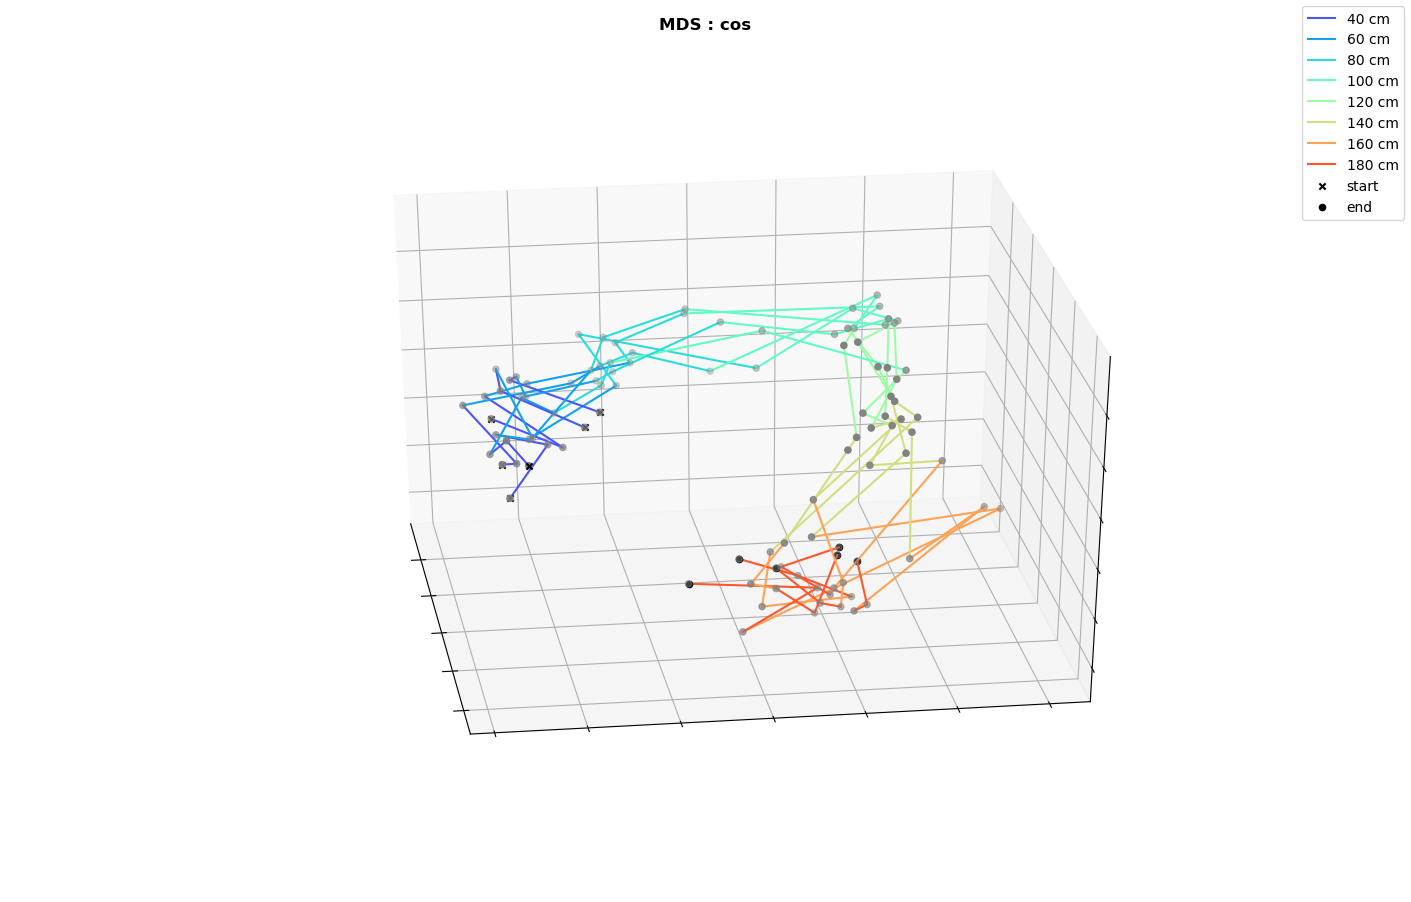
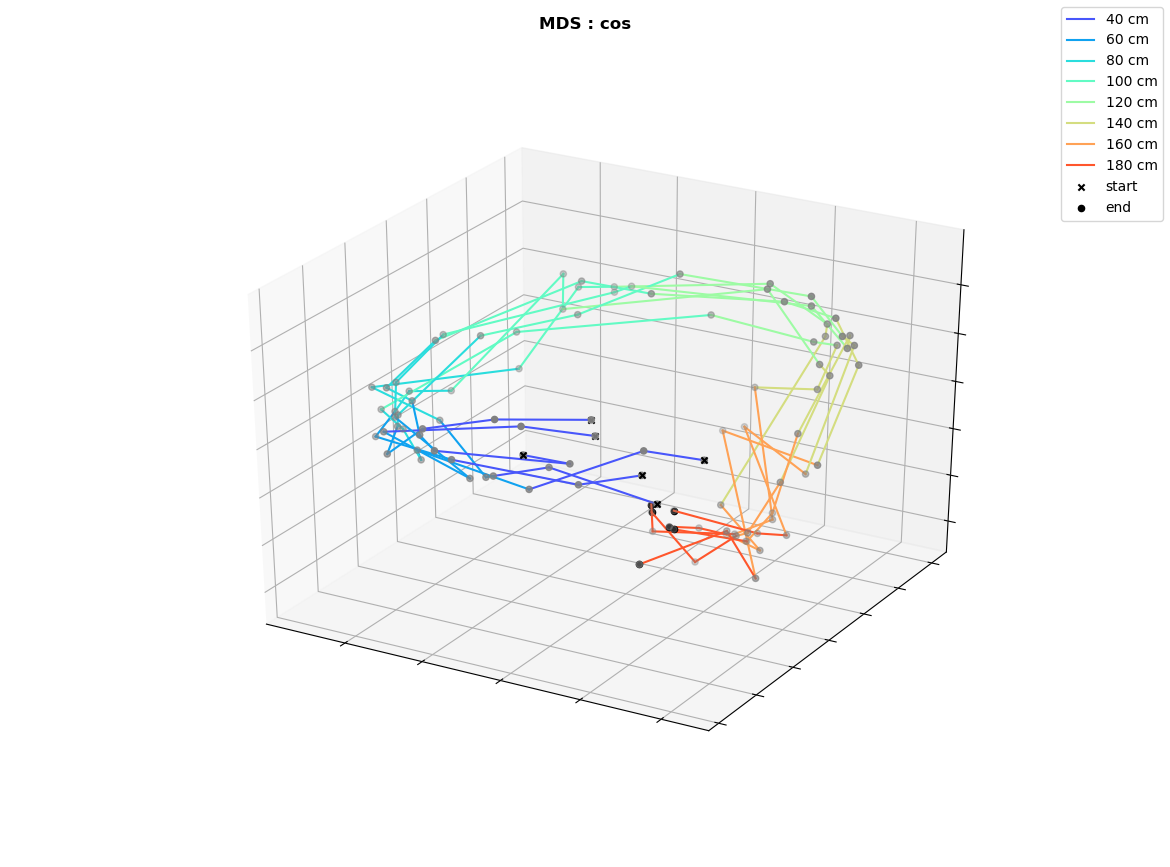
updated results

diff --git a/results.md b/results.md
@@ -3,6 +3,7 @@
 Do we see significant differences in the dynamics of the system for two different rules?
 
 **Analysis methods**:
+* same trajectories (start arm & goal arm)
 * using concatenated data for transformation and separating them afterwards
 * filtered data where speed < 5 cm/s and all zero population vectors
 * dimensionality reduction: MDS, PCA etc.
@@ -41,6 +42,7 @@ Do we see significant differences in the dynamics of the system for two differen
 Can we characterize the transition of the manifold during the rule switch?
 
 **Analysis methods**:
+* same trajectories (start arm & goal arm)
 * using concatenated trials for transformation and separating them afterwards
 * filtered data where speed < 5 cm/s and all zero population vectors
 * dimensionality reduction: MDS, PCA etc.
@@ -90,6 +92,8 @@ Can we characterize the transition of the manifold during the rule switch?
 
 ![alt text](plots/man_transition_one_plot_MDS_cos_2D.png)
 
+![alt text](plots/man_transition_one_plot_MDS_cos_3D.png)
+* visible separation for both rules
 
 # STATE TRANSITION ANALYSIS: HPC
 
